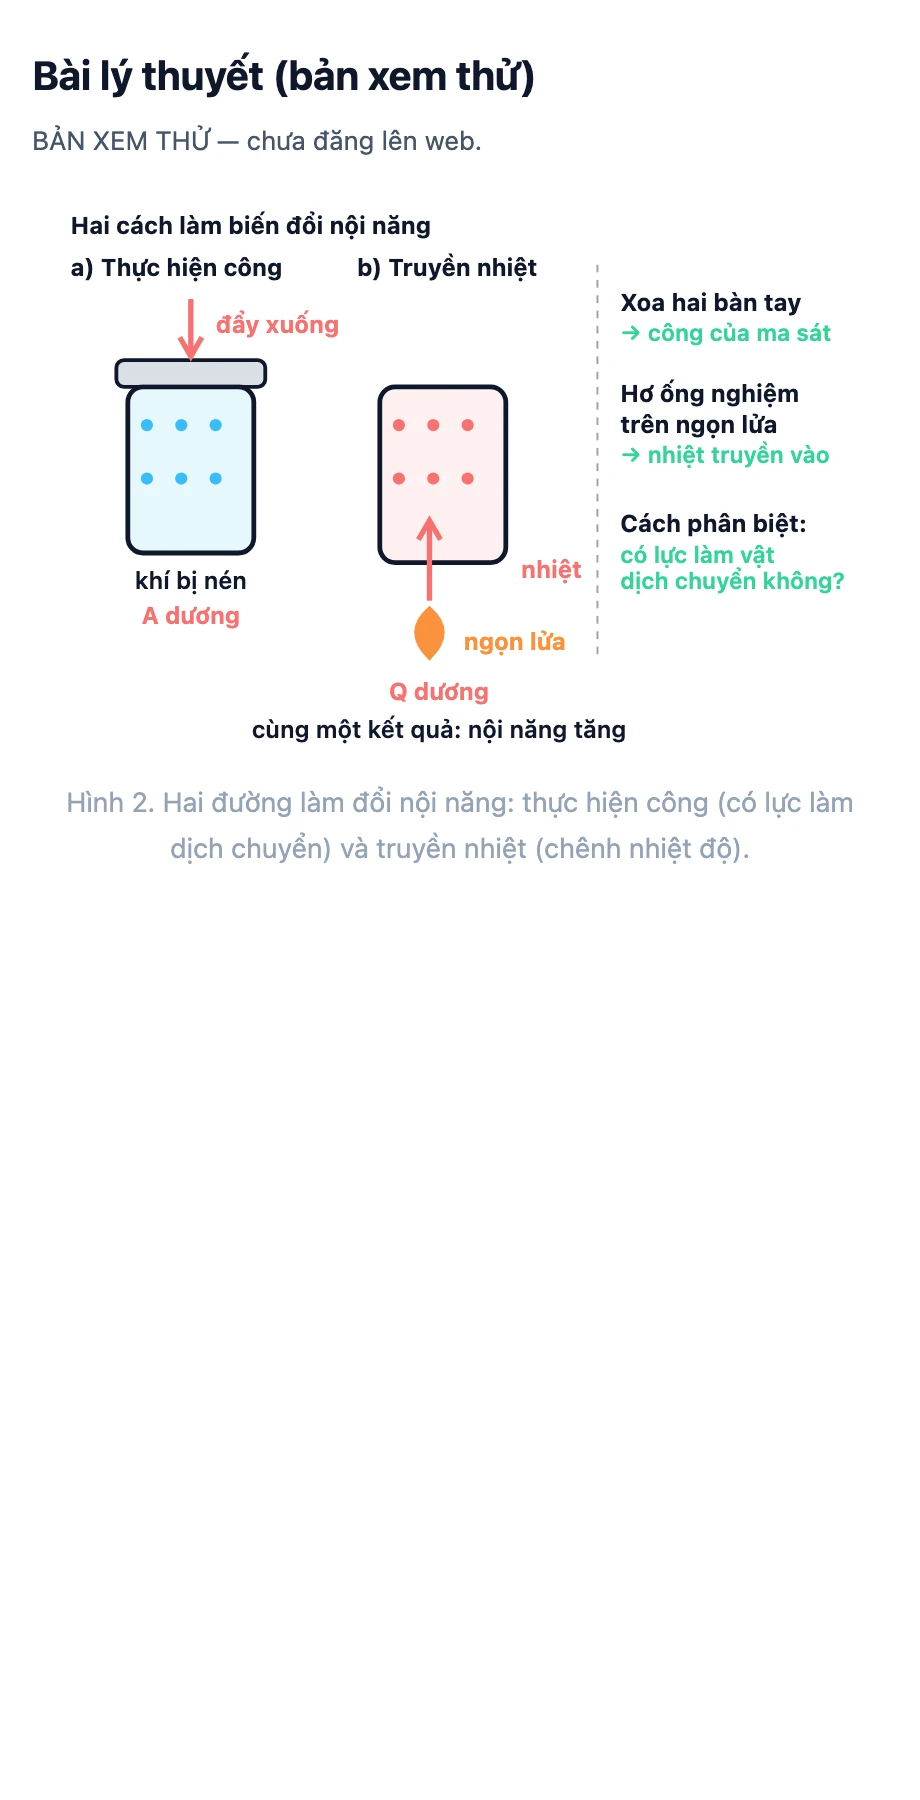
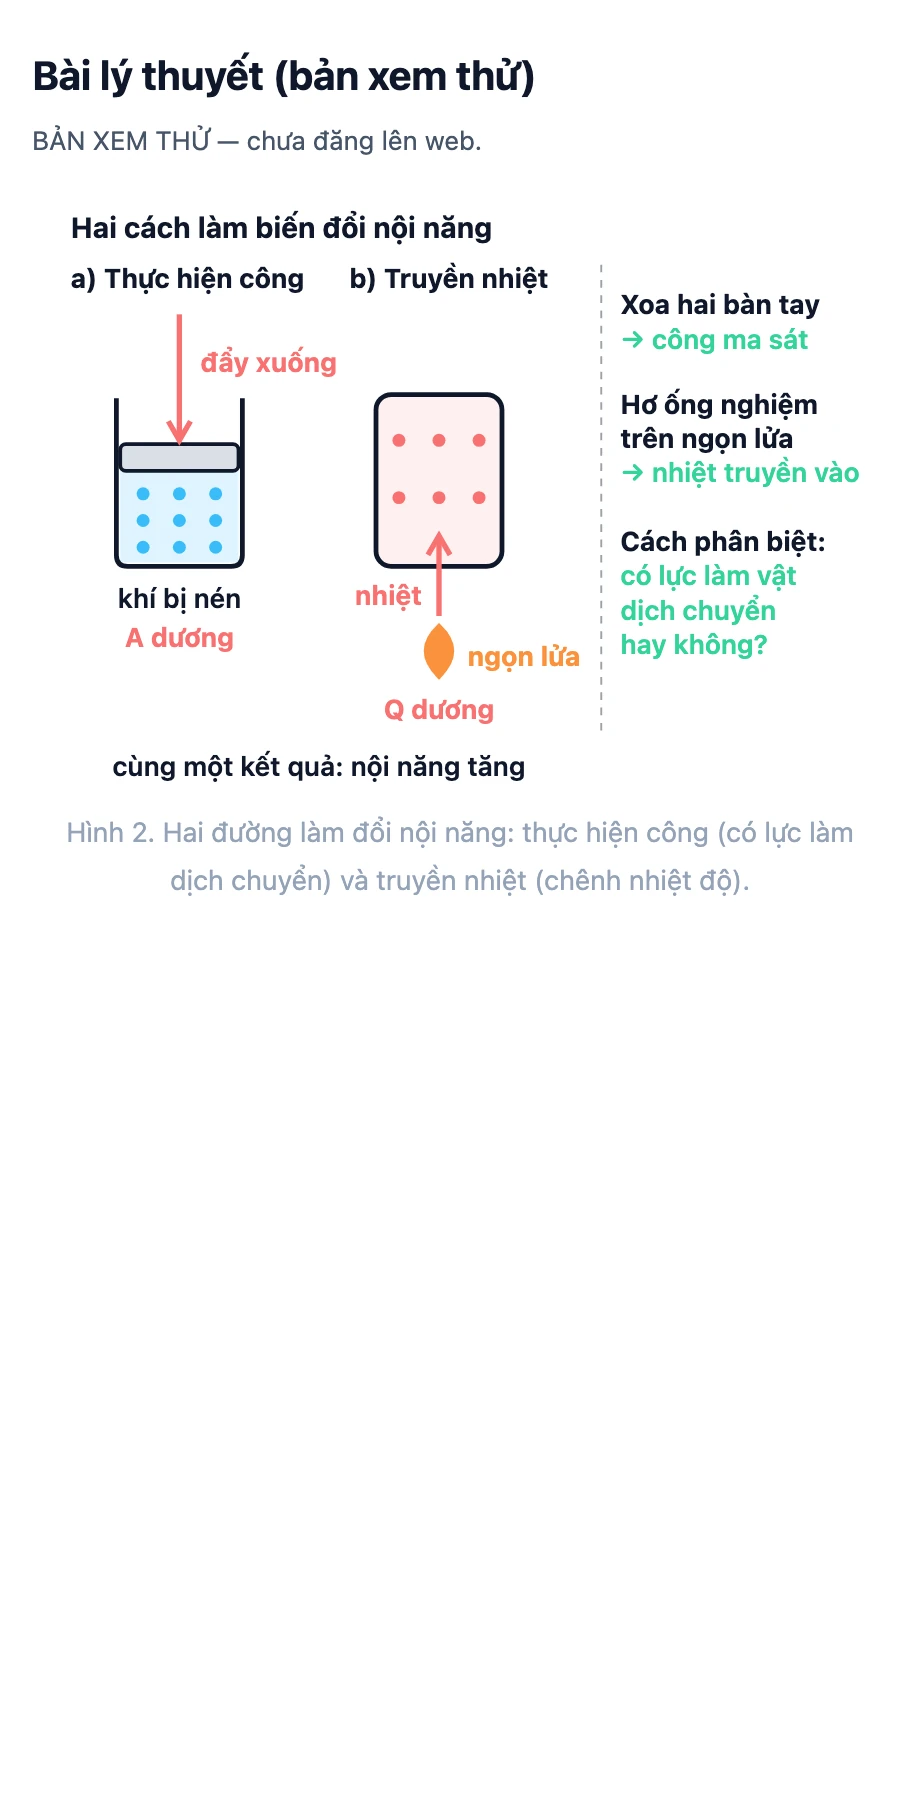
L12 Bài 3 Nội năng – ĐL1: vẽ lại Hình 1 (tay áp lên kim loại/gỗ, mũi nhiệt bắt đầu trong vật, không đè tay), Hình 2 (nén khí: pit-tông hạ, chấm dày hơn; hơ lửa), Hình 4 (sơ đồ ĐL I một lần bơm, mỗi ý một dòng); chữ 12–13 → ≥14. Sửa câu "miếng sắt 1 000 °C … vẫn nhỏ hơn" → "miếng sắt nhỏ … có thể nhỏ

Changed region(s): [[0.0609, 0.0933, 0.9435, 0.4978], [0.6391, 0.1556, 0.9435, 0.3733]]

diff --git a/content/lesson-samples/l12-noi-nang-dl1/build_figs.py b/content/lesson-samples/l12-noi-nang-dl1/build_figs.py
@@ -33,88 +33,89 @@ def wrap(vb, label, body, cap, exp=""):
 
 
 # ======================================================= Hình 1: cùng 5 °C, khác cảm giác
+# (vẽ lại 31/10/2026: chữ >= 14, bàn tay áp phẳng lên mặt vật, mũi tên nhiệt bắt đầu ở đáy lòng bàn tay)
 b = defs("f1")
-b += text(16, 22, "Cùng 5 °C — vì sao kim loại buốt hơn gỗ?", "currentColor", 13, "start", "700")
-
-HAND = ('<path d="M158 74 q0 -16 16 -16 q16 0 16 16 l0 18 q10 -6 18 2 q6 6 2 14 l-8 16 q-4 8 -12 8 l-24 0 '
-        'q-8 0 -12 -8 l-10 -20 q-4 -8 2 -14 q8 -8 16 -2 z" fill="rgba(148,163,184,.20)" stroke="currentColor" stroke-width="2"/>')
+b += text(16, 24, "Cùng 5 °C — vì sao kim loại buốt hơn gỗ?", "currentColor", 15, "start", "700")
 
 
-def hand(dx):          # bàn tay (đáy ở y=140) đặt đúng lên mặt vật
-    return f'<g transform="translate({dx} 8)">{HAND}</g>'
+def hand(dx):
+    """Bàn tay áp phẳng lên mặt vật (mặt vật ở y=140), cẳng tay chếch lên trái."""
+    g = (f'<rect x="{56+dx}" y="112" width="104" height="27" rx="13" fill="rgba(148,163,184,.25)" '
+          f'stroke="currentColor" stroke-width="2"/>')
+    # cẳng tay vẽ sau, đáy trùng mép trên lòng bàn tay (y=112) để không lộ nét chồng
+    g += (f'<path d="M{96+dx} 112 L{62+dx} 50 L{36+dx} 60 L{66+dx} 112" fill="rgba(148,163,184,.25)" '
+          f'stroke="currentColor" stroke-width="2" stroke-linejoin="round"/>')
+    return g
 
 
-# thanh kim loại + tay chạm vào mặt trên
-b += rect(40, 140, 150, 46, "rgba(56,189,248,.18)", BLUE, 2.5)
-b += hand(-89)
-b += text(122, 78, "tay em 33 °C", "currentColor", 12.5, "start", "600")
-b += text(150, 168, "kim loại", BLUE, 13, "middle", "700")
-b += text(115, 206, "5 °C", BLUE, 12.5, "middle", "700")
-# nhiệt đi từ tay xuống kim loại: ba mũi, dài (dẫn nhanh)
-for x in (68, 88, 108):
-    b += arrow("f1", "r", x, 120, x, 172, 3)
-b += text(128, 102, "rút nhiệt", RED, 12.5, "start", "700")
-b += text(128, 118, "rất nhanh", RED, 12.5, "start", "700")
+# --- kim loại
+b += rect(30, 140, 170, 46, "rgba(56,189,248,.18)", BLUE, 2.5)
+b += hand(0)
+b += text(76, 62, "tay em 33 °C", "currentColor", 14, "start", "600")
+for x in (82, 108, 134):                          # nhiệt đi từ tay xuống kim loại: ba mũi dài
+    b += arrow("f1", "r", x, 142, x, 180, 3)
+b += text(116, 88, "rút nhiệt", RED, 14, "start", "700")
+b += text(116, 106, "rất nhanh", RED, 14, "start", "700")
+b += text(115, 208, "kim loại", BLUE, 15, "middle", "700")
+b += text(115, 228, "5 °C", BLUE, 14, "middle", "700")
 
-# thanh gỗ (vẽ thêm vân gỗ) + tay chạm vào mặt trên
-b += rect(250, 140, 150, 46, "rgba(251,146,60,.20)", ORG, 2.5)
-b += line(250, 150, 400, 150, ORG, 1, "4 4", .5)
-b += line(250, 178, 400, 178, ORG, 1, "4 4", .5)
-b += hand(121)
-b += text(374, 168, "gỗ", ORG, 13, "middle", "700")
-b += text(325, 206, "5 °C", ORG, 12.5, "middle", "700")
-# nhiệt đi từ tay xuống gỗ: một mũi, ngắn (dẫn chậm)
-b += arrow("f1", "r", 298, 124, 298, 150, 3)
-b += text(338, 102, "rút nhiệt", RED, 12.5, "start", "600")
-b += text(338, 118, "chậm", RED, 12.5, "start", "600")
+# --- gỗ (vân gỗ nét đứt)
+b += rect(240, 140, 170, 46, "rgba(251,146,60,.20)", ORG, 2.5)
+b += line(240, 152, 410, 152, ORG, 1, "4 4", .5)
+b += line(240, 174, 410, 174, ORG, 1, "4 4", .5)
+b += hand(210)
+b += arrow("f1", "r", 318, 142, 318, 162, 3)      # một mũi ngắn: dẫn chậm
+b += text(326, 88, "rút nhiệt", RED, 14, "start", "700")
+b += text(326, 106, "chậm", RED, 14, "start", "700")
+b += text(325, 208, "gỗ", ORG, 15, "middle", "700")
+b += text(325, 228, "5 °C", ORG, 14, "middle", "700")
 
-b += line(16, 222, 404, 222, "currentColor", 1.5, "", .5)
-b += text(16, 240, "Cùng nhiệt độ, khác tốc độ dẫn nhiệt → khác cảm giác", "currentColor", 12.5, "start", "600")
-fig1 = wrap("0 0 420 252", "Bàn tay đặt lên thanh kim loại 5 độ C và thanh gỗ 5 độ C: kim loại rút nhiệt từ tay nhanh hơn nên thấy buốt hơn",
+b += line(16, 244, 424, 244, "currentColor", 1.5, "", .5)
+b += text(16, 266, "Cùng nhiệt độ, khác tốc độ dẫn nhiệt", "currentColor", 14, "start", "600")
+b += text(16, 286, "→ khác cảm giác", "currentColor", 14, "start", "600")
+fig1 = wrap("0 0 440 298", "Bàn tay đặt lên thanh kim loại 5 độ C và thanh gỗ 5 độ C: kim loại rút nhiệt từ tay nhanh hơn nên thấy buốt hơn",
             b, "Hình 1. Cùng 5 °C, nhưng kim loại rút nhiệt từ tay nhanh hơn gỗ. Cảm giác không phải là nhiệt độ.")
 
-# ======================================================= Hình 2: hai cách làm biến đổi nội năng
+# ======================================================= Hình 2: hai cách làm biến đổi nội năng (vẽ lại 31/10/2026: chữ >= 14)
 b = defs("f2")
-b += text(16, 20, "Hai cách làm biến đổi nội năng", "currentColor", 12.5, "start", "700")
+b += text(16, 22, "Hai cách làm biến đổi nội năng", "currentColor", 15, "start", "700")
 
 # --- a) thực hiện công: xilanh bị nén
-b += text(16, 42, "a) Thực hiện công", "currentColor", 12.5, "start", "700")
-b += rect(46, 100, 66, 87, "rgba(56,189,248,.12)", "currentColor", 2.5)
-for i in range(6):                      # các phân tử khí
-    x = 56 + (i % 3) * 18
-    y = 120 + (i // 3) * 28
-    b += dot(x, y, 3.2, BLUE)
-b += rect(40, 86, 78, 14, "rgba(148,163,184,.35)", "currentColor", 2, 4)   # pit-tông
-b += arrow("f2", "r", 79, 54, 79, 84, 3)          # đẩy pit-tông XUỐNG (y tăng)
-b += text(92, 72, "đẩy xuống", RED, 12.5, "start", "700")
-b += text(79, 206, "khí bị nén", "currentColor", 12.5, "middle", "600")
-b += text(79, 224, "A dương", RED, 12.5, "middle", "700")
+b += text(16, 48, "a) Thực hiện công", "currentColor", 14, "start", "700")
+b += rect(42, 144, 62, 48, "rgba(56,189,248,.16)", "none", 0, 0)        # phần khí bị nén (dưới pit-tông)
+b += '<path d="M40 106 L40 188 Q40 194 46 194 L100 194 Q106 194 106 188 L106 106" fill="none" stroke="currentColor" stroke-width="2.5"/>'  # xilanh hở miệng
+for i in range(9):                      # cùng số phân tử dồn vào thể tích nhỏ hơn -> dày hơn
+    b += dot(54 + (i % 3) * 19, 156 + (i // 3) * 14, 3.4, BLUE)
+b += rect(42, 130, 62, 14, "rgba(148,163,184,.35)", "currentColor", 2, 3)  # pit-tông nằm trong xilanh, đã ép xuống thấp
+b += arrow("f2", "r", 73, 62, 73, 128, 3)         # đẩy pit-tông XUỐNG (y tăng)
+b += text(84, 92, "đẩy xuống", RED, 14, "start", "700")
+b += text(73, 216, "khí bị nén", "currentColor", 14, "middle", "600")
+b += text(73, 236, "A dương", RED, 14, "middle", "700")
 
-# --- b) truyền nhiệt: ngọn lửa
-b += text(166, 42, "b) Truyền nhiệt", "currentColor", 12.5, "start", "700")
-b += rect(178, 100, 66, 92, "rgba(248,113,113,.10)", "currentColor", 2.5)
+# --- b) truyền nhiệt: ống nghiệm hơ trên ngọn lửa
+b += text(162, 48, "b) Truyền nhiệt", "currentColor", 14, "start", "700")
+b += rect(176, 104, 66, 90, "rgba(248,113,113,.10)", "currentColor", 2.5)
 for i in range(6):
-    x = 188 + (i % 3) * 18
-    y = 120 + (i // 3) * 28
-    b += dot(x, y, 3.2, RED)
-b += arrow("f2", "r", 204, 212, 204, 170, 3)      # nhiệt đi từ ngọn lửa VÀO ống
-b += text(252, 200, "nhiệt", RED, 12.5, "start", "700")
-b += f'<path d="M204 242 q-14 -14 0 -26 q14 12 0 26 z" fill="{ORG}" stroke="{ORG}" stroke-width="2"/>'
-b += text(222, 238, "ngọn lửa", ORG, 12.5, "start", "700")
-b += text(209, 264, "Q dương", RED, 12.5, "middle", "700")
-b += text(209, 284, "cùng một kết quả: nội năng tăng", "currentColor", 12.5, "middle", "600")
+    b += dot(188 + (i % 3) * 21, 128 + (i // 3) * 30, 3.4, RED)
+b += arrow("f2", "r", 209, 220, 209, 178, 3)      # nhiệt đi từ ngọn lửa VÀO ống
+b += text(200, 214, "nhiệt", RED, 14, "end", "700")
+b += f'<path d="M209 252 q-14 -14 0 -27 q14 13 0 27 z" fill="{ORG}" stroke="{ORG}" stroke-width="2"/>'
+b += text(224, 246, "ngọn lửa", ORG, 14, "start", "700")
+b += text(209, 274, "Q dương", RED, 14, "middle", "700")
+b += text(146, 304, "cùng một kết quả: nội năng tăng", "currentColor", 14, "middle", "600")
 
 # --- hai ví dụ đời thường bên phải
-b += line(292, 36, 292, 240, "currentColor", 1, "4 4", .4)
-b += text(304, 60, "Xoa hai bàn tay", "currentColor", 12.5, "start", "700")
-b += text(304, 76, "→ công của ma sát", GRN, 12, "start", "600")
-b += text(304, 108, "Hơ ống nghiệm", "currentColor", 12.5, "start", "700")
-b += text(304, 124, "trên ngọn lửa", "currentColor", 12.5, "start", "700")
-b += text(304, 140, "→ nhiệt truyền vào", GRN, 12, "start", "600")
-b += text(304, 176, "Cách phân biệt:", "currentColor", 12.5, "start", "700")
-b += text(304, 192, "có lực làm vật", GRN, 12, "start", "600")
-b += text(304, 206, "dịch chuyển không?", GRN, 12, "start", "600")
-fig2 = wrap("0 0 440 300", "Hai cách làm biến đổi nội năng: nén khí bằng công và hơ nóng bằng truyền nhiệt, cùng làm nội năng tăng",
+b += line(294, 36, 294, 282, "currentColor", 1, "4 4", .4)
+b += text(304, 62, "Xoa hai bàn tay", "currentColor", 14, "start", "700")
+b += text(304, 80, "→ công ma sát", GRN, 14, "start", "600")
+b += text(304, 114, "Hơ ống nghiệm", "currentColor", 14, "start", "700")
+b += text(304, 132, "trên ngọn lửa", "currentColor", 14, "start", "700")
+b += text(304, 150, "→ nhiệt truyền vào", GRN, 14, "start", "600")
+b += text(304, 186, "Cách phân biệt:", "currentColor", 14, "start", "700")
+b += text(304, 204, "có lực làm vật", GRN, 14, "start", "600")
+b += text(304, 222, "dịch chuyển", GRN, 14, "start", "600")
+b += text(304, 240, "hay không?", GRN, 14, "start", "600")
+fig2 = wrap("0 0 440 316", "Hai cách làm biến đổi nội năng: nén khí bằng công và hơ nóng bằng truyền nhiệt, cùng làm nội năng tăng",
             b, "Hình 2. Hai đường làm đổi nội năng: thực hiện công (có lực làm dịch chuyển) và truyền nhiệt (chênh nhiệt độ).")
 
 # ======================================================= Hình 3: ảnh OpenStax College Physics 2e, Hình 14.4 (đợt 2, 27/10/2026)
@@ -129,36 +130,35 @@ fig3 = ('<figure class="fig" data-tl="1"><img src="/assets/openstax/l12-noi-nang
         '<small>Hình: OpenStax, College Physics 2e, Hình 14.4 — CC BY‑NC‑SA 4.0 — openstax.org/books/college-physics-2e</small>'
         '</figcaption></figure>')
 
-# ======================================================= Hình 4: sơ đồ định luật I cho bài toán bơm
+# ======================================================= Hình 4: sơ đồ định luật I cho bài toán bơm (vẽ lại 31/10/2026: chữ >= 14)
 b = defs("f4")
-b += text(16, 24, "Định luật I cho một lần ấn bơm", "currentColor", 13, "start", "700")
+b += text(16, 24, "Định luật I cho một lần ấn bơm", "currentColor", 15, "start", "700")
 
 # xilanh
-b += rect(150, 96, 84, 118, "rgba(56,189,248,.12)", "currentColor", 2.5)
+b += rect(120, 100, 84, 116, "rgba(56,189,248,.12)", "currentColor", 2.5)
 for i in range(6):
-    x = 162 + (i % 3) * 24
-    y = 140 + (i // 3) * 34
-    b += dot(x, y, 3.4, BLUE)
-b += rect(142, 80, 100, 15, "rgba(148,163,184,.35)", "currentColor", 2, 4)
-b += arrow("f4", "r", 192, 36, 192, 78, 3)        # công ép pit-tông XUỐNG
-b += text(206, 52, "công 60 J", RED, 13, "start", "700")
-b += text(206, 70, "tay truyền cho khí", "currentColor", 12, "start", "600")
-b += text(192, 236, "khối khí", "currentColor", 12.5, "middle", "600")
+    b += dot(136 + (i % 3) * 26, 140 + (i // 3) * 36, 3.4, BLUE)
+b += rect(112, 84, 100, 15, "rgba(148,163,184,.35)", "currentColor", 2, 4)
+b += arrow("f4", "r", 162, 40, 162, 82, 3)        # công ép pit-tông XUỐNG
+b += text(176, 54, "công 60 J", RED, 15, "start", "700")
+b += text(176, 74, "tay truyền cho khí", "currentColor", 14, "start", "600")
+b += text(162, 240, "khối khí", "currentColor", 14, "middle", "600")
 
-# nhiệt toả ra
-b += arrow("f4", "b", 240, 132, 308, 110, 3.5)
-b += text(314, 100, "toả ra 15 J", BLUE, 13, "start", "700")
-b += text(314, 116, "qua thành ống bơm", "currentColor", 12, "start", "600")
+# nhiệt toả ra qua thành ống
+b += arrow("f4", "b", 208, 150, 276, 128, 3.5)
+b += text(284, 116, "toả ra 15 J", BLUE, 15, "start", "700")
+b += text(284, 136, "qua thành ống", "currentColor", 14, "start", "600")
 
 # hộp kết quả
-b += rect(302, 146, 122, 84, "rgba(52,211,153,.14)", GRN, 2.5)
-b += text(363, 172, "ΔU = A + Q", "currentColor", 12.5, "middle", "700")
-b += text(363, 196, "= 60 + (−15)", "currentColor", 12, "middle", "600")
-b += text(363, 219, "= +45 J", GRN, 14, "middle", "700")
+b += rect(284, 156, 144, 86, "rgba(52,211,153,.14)", GRN, 2.5)
+b += text(356, 182, "ΔU = A + Q", "currentColor", 15, "middle", "700")
+b += text(356, 206, "= 60 + (−15)", "currentColor", 15, "middle", "600")
+b += text(356, 231, "= +45 J", GRN, 16, "middle", "700")
 
-b += line(16, 268, 432, 268, "currentColor", 1.5, "", .5)
-b += text(16, 286, "Nhận vào thì dương (công +60) · mất đi thì âm (nhiệt −15)", "currentColor", 12, "start", "600")
-fig4 = wrap("0 0 440 298", "Sơ đồ định luật I cho một lần ấn bơm: công 60 J truyền vào khí, khí toả ra 15 J, độ biến thiên nội năng bằng 45 J",
+b += line(16, 262, 424, 262, "currentColor", 1.5, "", .5)
+b += text(16, 284, "Nhận vào thì dương: công +60 J", "currentColor", 14, "start", "600")
+b += text(16, 304, "Mất đi thì âm: nhiệt −15 J", "currentColor", 14, "start", "600")
+fig4 = wrap("0 0 440 316", "Sơ đồ định luật I cho một lần ấn bơm: công 60 J truyền vào khí, khí toả ra 15 J, độ biến thiên nội năng bằng 45 J",
             b, "Hình 4. Một lần bơm: công 60 J vào khí, nhiệt 15 J ra khỏi khí: ΔU = 60 + (−15) = +45 J.")
 
 # ------------------------------------------------------- thay vào theory.html
